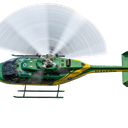
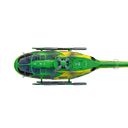
fix: regenerate helicopter sprite with padding so front isn't cropped
- Old sprite had helicopter nose at x=0 (touching frame edge)
- New prompt ensures helicopter is centered with empty space around edges
- New sprite: content starts at x=14, center of mass at (59.8, 64.8)
- Bumped cache buster to v263

diff --git a/scripts/generate-ai-assets.ts b/scripts/generate-ai-assets.ts
@@ -273,7 +273,7 @@ const ASSETS: AssetDef[] = [
   furniture("desk_monitor_black", "top-down view of a modern slim-bezel computer monitor seen from front, completely black powered-off screen, stand base and neck, realistic office equipment, game sprite, isolated on white background", 3030),
   furniture("desk_monitor_side_off", "side view of a thin computer monitor profile, dark screen edge, stand base and neck, power LED, realistic office equipment, game sprite, isolated on white background", 3031),
   furniture("desk_monitor_side_lit", "side view of a thin computer monitor profile with glowing blue screen edge, stand base and neck, power LED, realistic office equipment, game sprite, isolated on white background", 3032),
-  furniture("helicopter_top", "top-down view of a green and yellow helicopter seen from directly above, spinning rotor blades blurred as a disc, landing skids visible, cockpit windshield, tail boom extending to the right, realistic aircraft, game sprite, isolated on white background", 3033),
+  furniture("helicopter_top", "top-down view of a green and yellow helicopter seen from directly above, spinning rotor blades blurred as a disc, landing skids visible, cockpit windshield, tail boom extending to the right, helicopter centered in frame with empty space around all edges, realistic aircraft, game sprite, isolated on white background", 3033),
 
   // ------------------------------------------------------- Tier 4: World items & props (Nano Banana 2 + Bria RMBG)
 

diff --git a/client/src/game/boot.ts b/client/src/game/boot.ts
@@ -57,7 +57,7 @@ export class BootScene extends Phaser.Scene {
     });
 
     // AI texture atlases (replaces 124+ individual requests with 4)
-    const atlasVer = "?v=262";
+    const atlasVer = "?v=263";
     this.load.image("ai-tiles-atlas", `assets/atlases/ai-tiles-atlas.webp${atlasVer}`);
     this.load.json("ai-tiles-atlas-meta", `assets/atlases/ai-tiles-atlas.json${atlasVer}`);
     this.load.image("ai-sprites-atlas", `assets/atlases/ai-sprites-atlas.webp${atlasVer}`);
